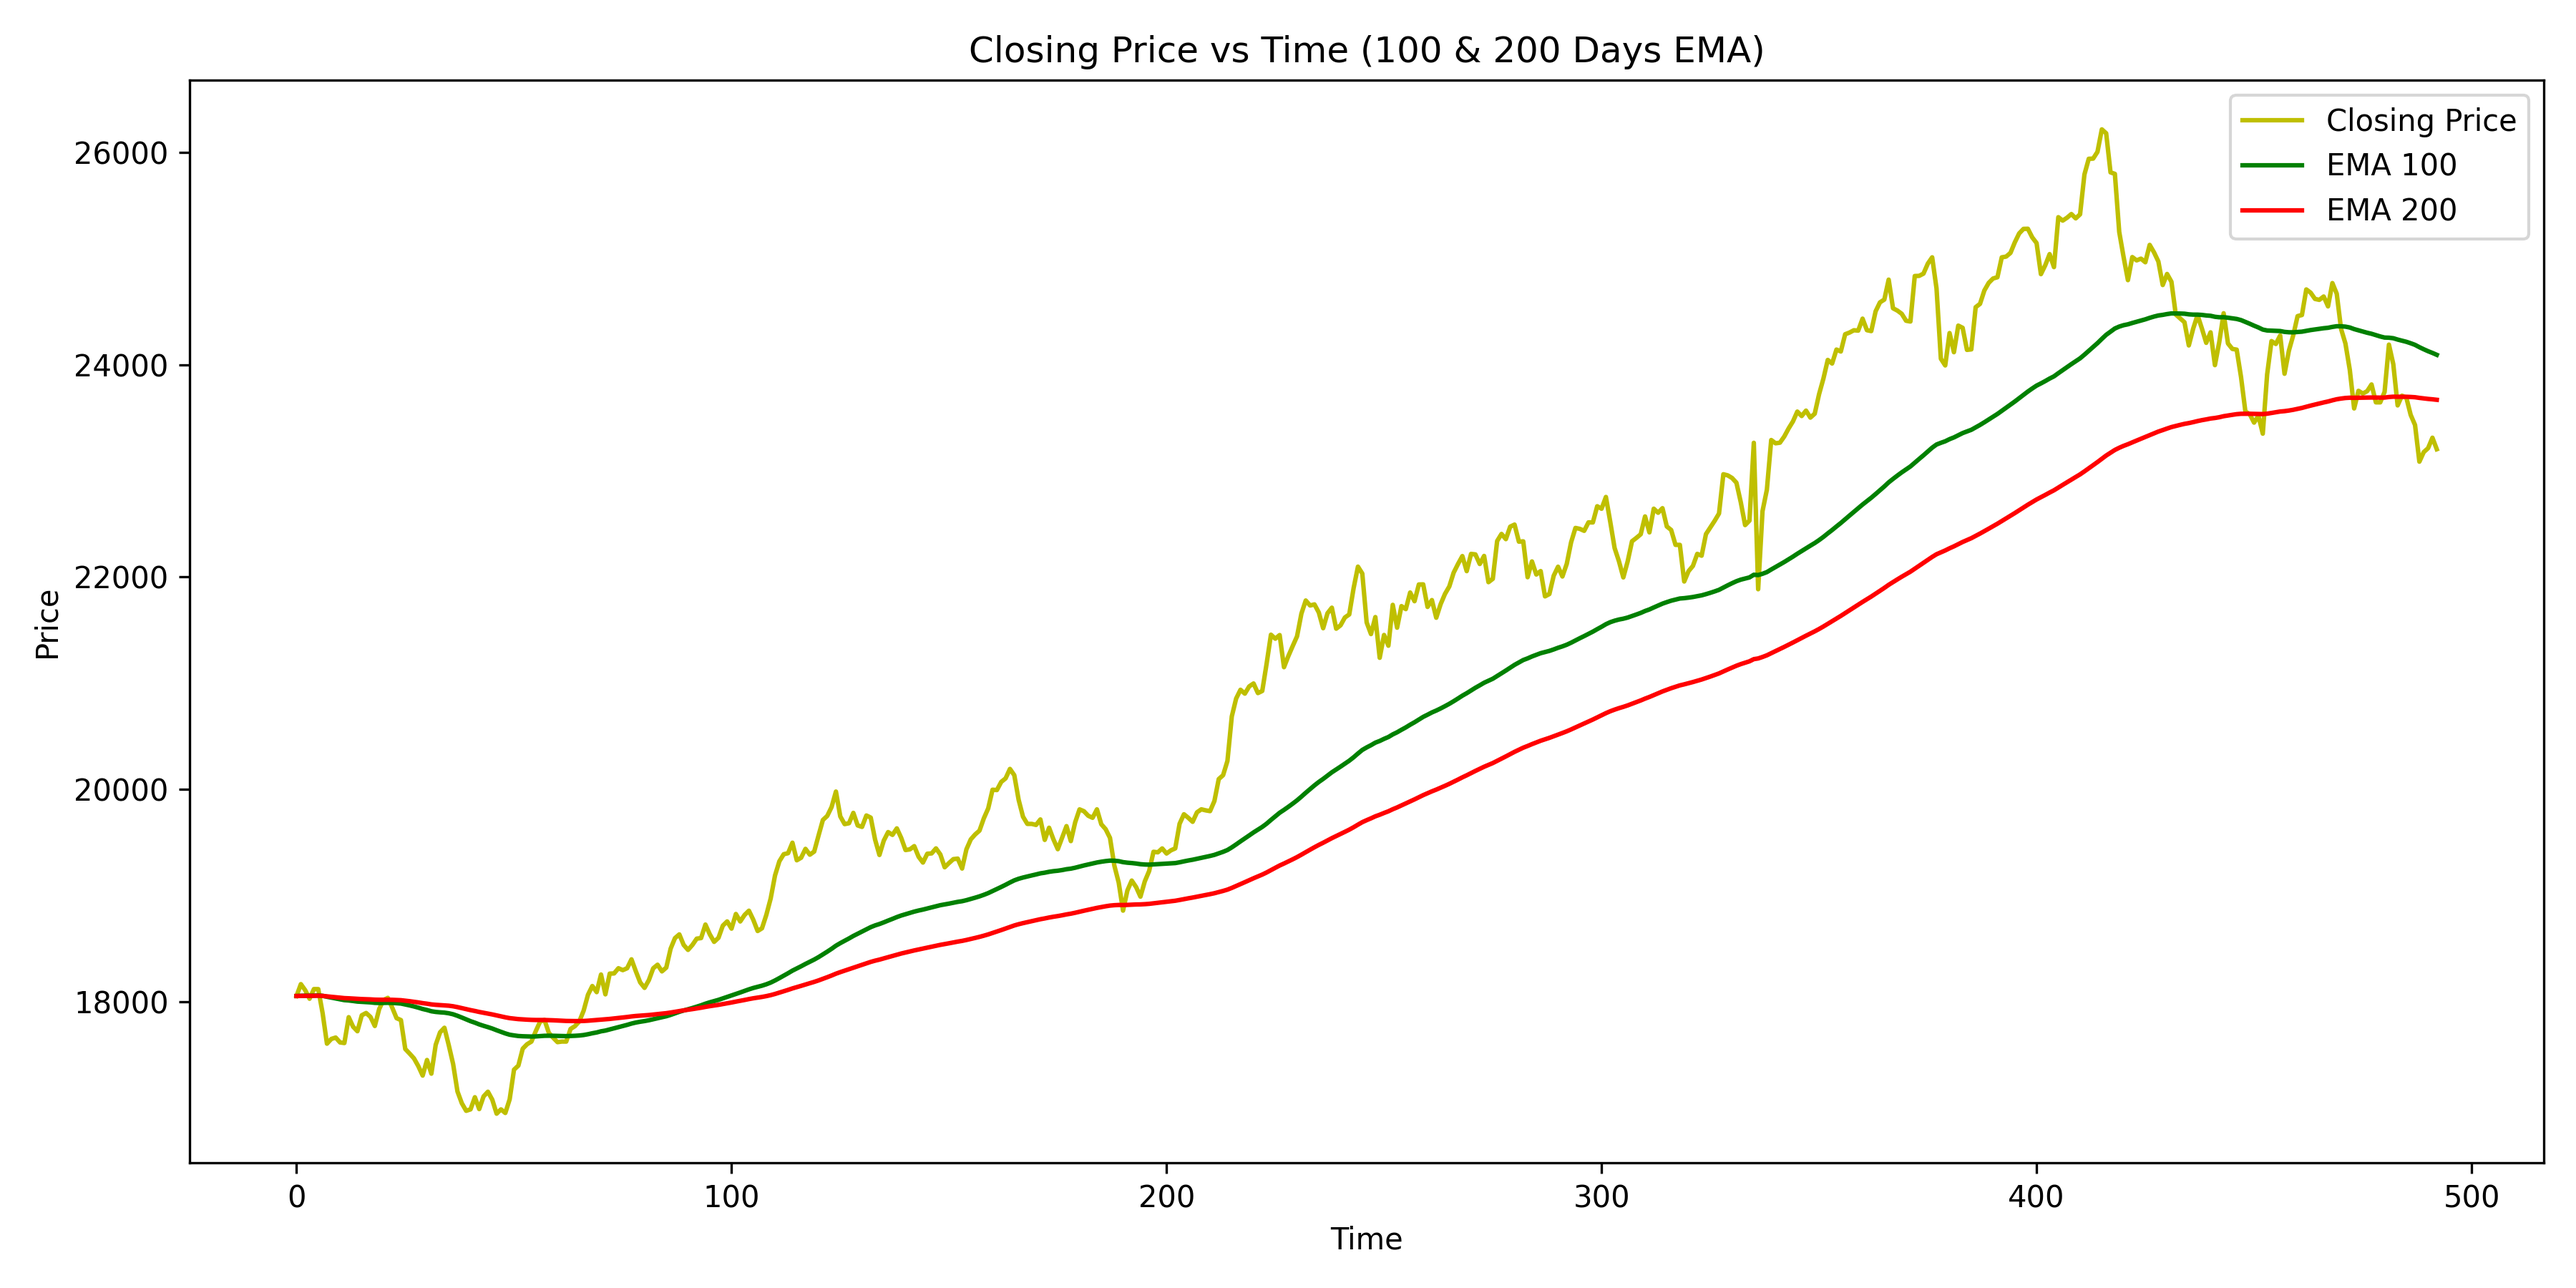
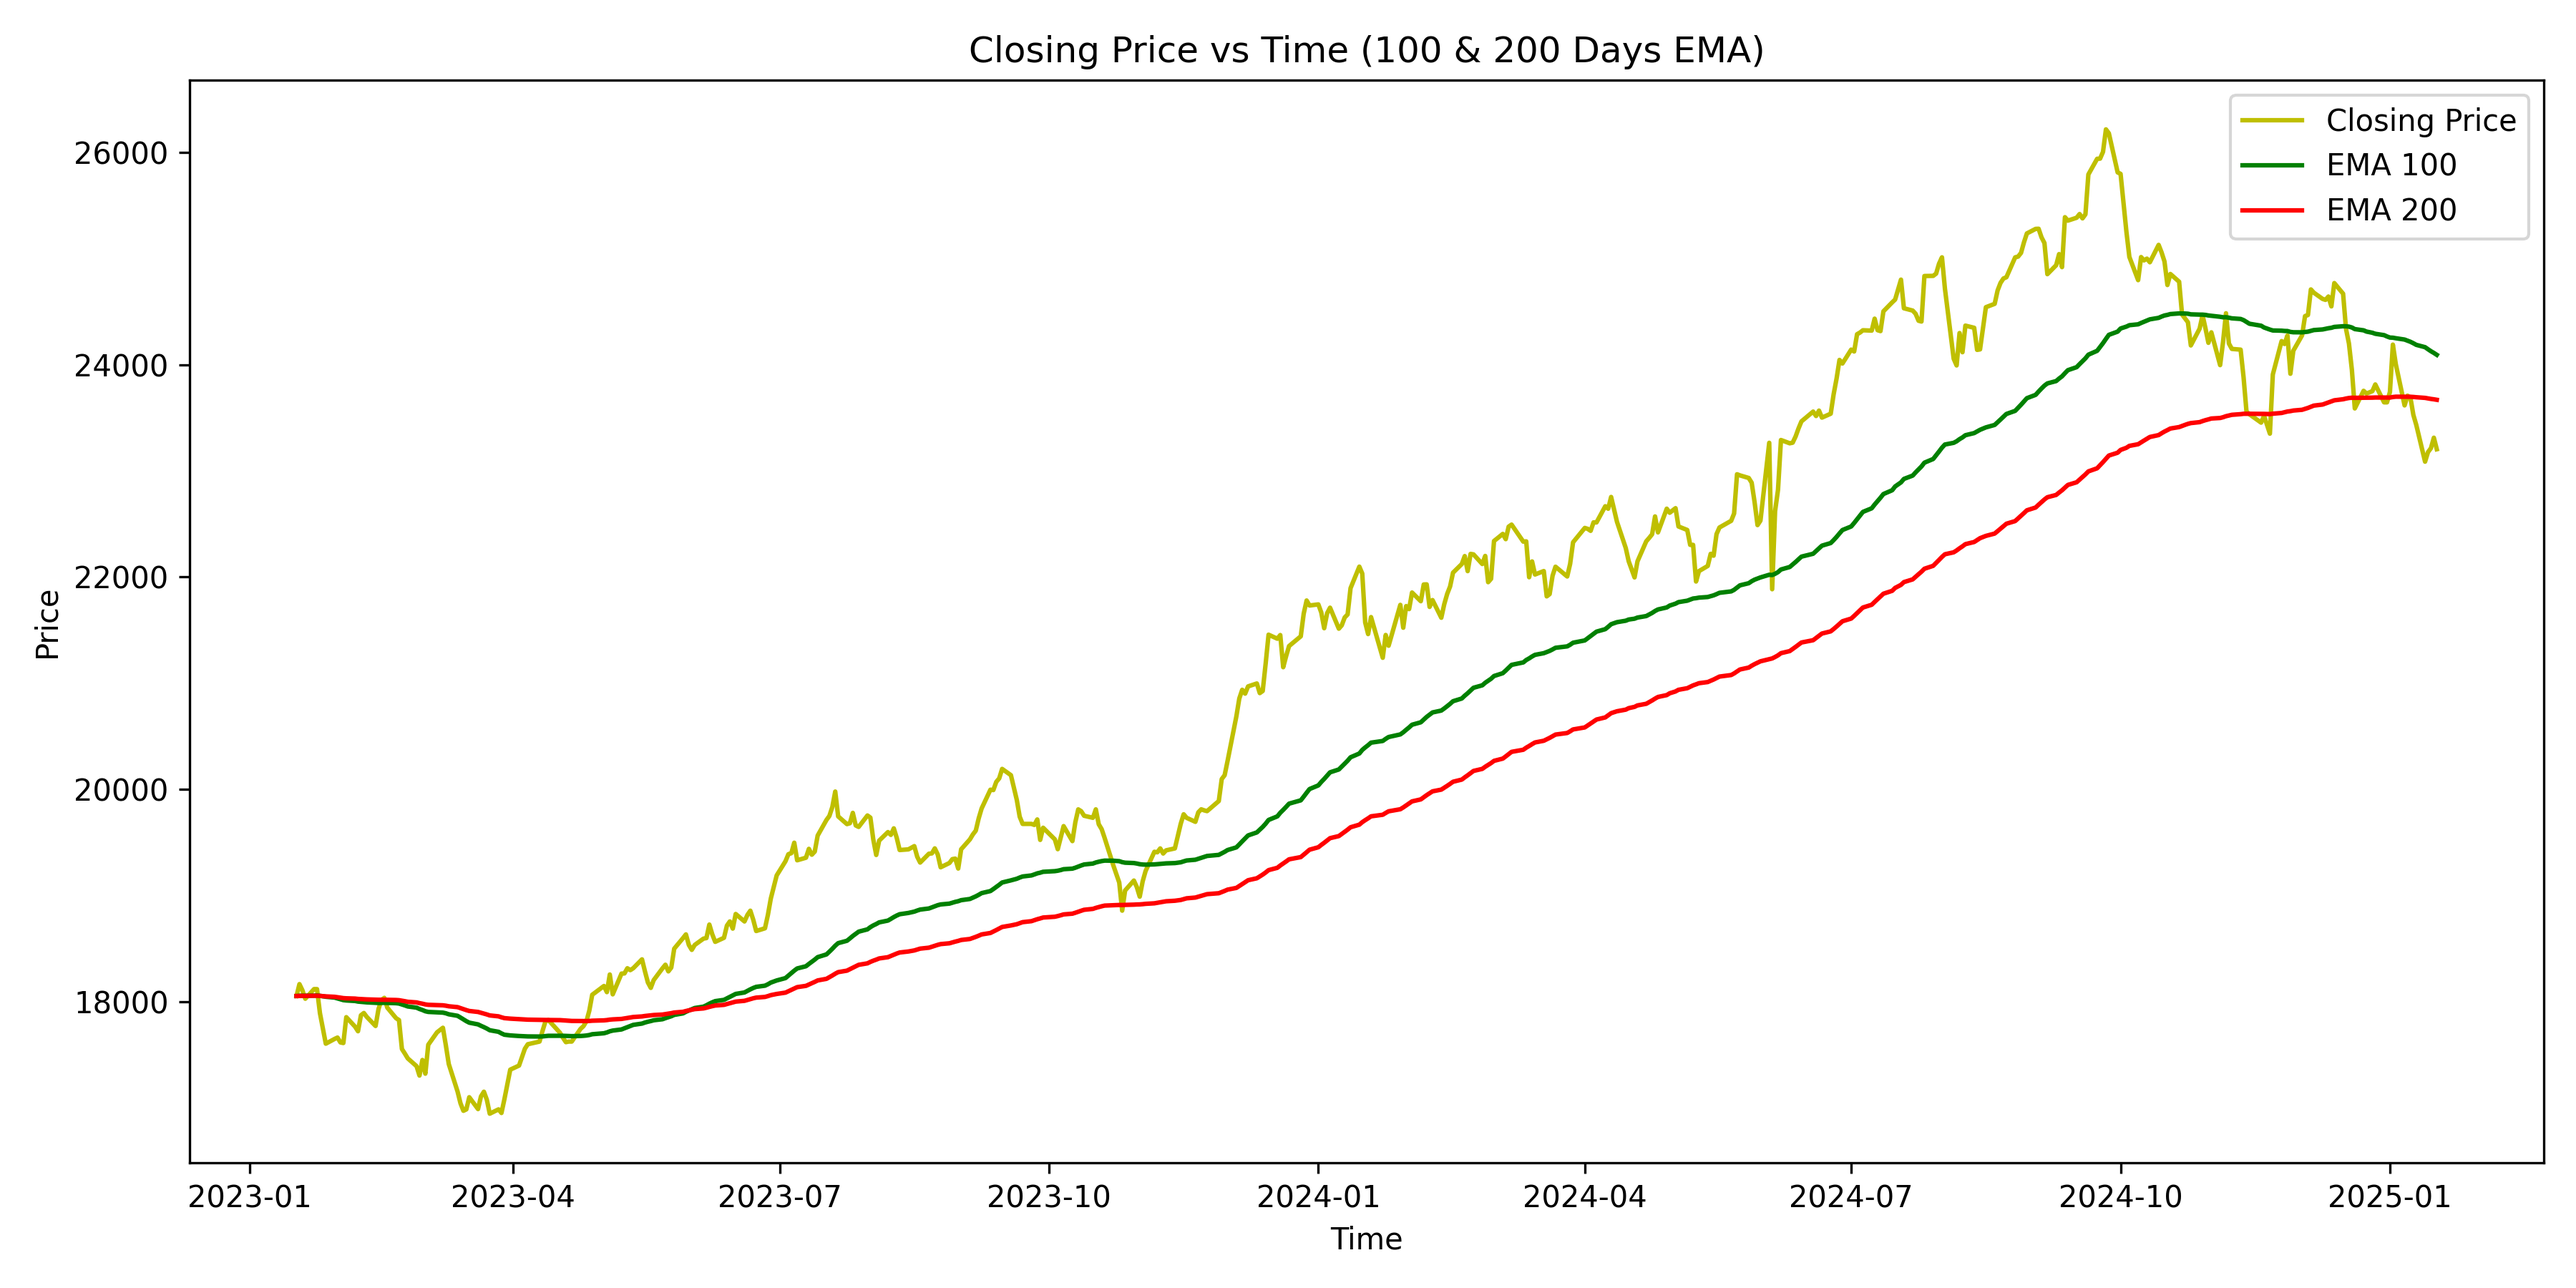
Change static to dynamic stock price prediction

diff --git a/templates/index.html b/templates/index.html
@@ -24,7 +24,7 @@
           <div class="col-md-2 d-flex align-items-end">
             <button type="submit" class="btn btn-primary">Submit</button>
           </div> -->
-          {% if output %}
+          {% if message %} {{ message }} {% endif %} {% if output %}
           <div class="col-md-12">
             <div class="table-responsive">
               <table class="table table-bordered">
@@ -55,22 +55,4 @@
     integrity="sha384-0pUGZvbkm6XF6gxjEnlmuGrJXVbNuzT9qBBavbLwCsOGabYfZo0T0to5eqruptLy"
     crossorigin="anonymous"
   ></script>
-
-  <script>
-    document.addEventListener("DOMContentLoaded", function () {
-      const inputBox = document.getElementById("stock");
-
-      inputBox.addEventListener("keyup", function () {
-        var stock_id = inputBox.value
-        fetch( '{{ url_for('get_stock_id') }}?stock='+stock_id, {
-          method: "POST",
-        })
-        .then(response => response.json())
-        .then((data) => {
-          console.log(data)
-        })
-        console.log("Input changed to:", inputBox.value);
-      });
-    });
-  </script>
 </html>

diff --git a/app.py b/app.py
@@ -5,8 +5,7 @@ import joblib
 import numpy as np
 import matplotlib.pyplot as plt
 from pathlib import Path
-
-response = requests.get("https://query2.finance.yahoo.com/v8/finance/chart/AAPL", params={'range':'2y', 'interval':'1d', 'includePrePost':'False', 'events':'div,splits,capitalGains'}, verify=False)
+import yfinance as yf
 
 app = Flask(__name__, template_folder="templates")
 
@@ -21,107 +20,123 @@ def save_fig(fig_id, tight_layout=True, fig_extension="png", resolution=300):
 def index():
     return render_template('index.html')
 
-@app.route('/get_stock_id', methods=["POST"])
-def get_stock_id():
-    stock_id = request.args.get('stock')
-    ticker = request.args.get('ticker')
-    # replace the "demo" apikey below with your own key from https://www.alphavantage.co/support/#api-key
-    url = f'https://www.alphavantage.co/query?function=SYMBOL_SEARCH&keywords={ticker}&apikey=YG8JN0I1UN1ARP9T'
-    r = requests.get(url, verify=False)
-    data = r.json()
-    return data 
-
-
 @app.route('/predict_api', methods=["POST"])
 def predict_api():
 
-    df = pd.read_csv('nsei-stock-data.csv')
+    ticker = request.args.get('ticker')
 
-    data_training = pd.DataFrame(df['Close'][0:int(len(df)*0.40)])
-    data_testing = pd.DataFrame(df['Close'][int(len(df)*0.40): int(len(df))])
+    if 'ticker' in request.args.keys():
 
-    scaler = joblib.load('stock-price-prediction-scaler.pkl')
+        # Get the ticker object
+        stock = yf.Ticker(ticker)
 
-    sequence_length = 200
-    past_200_days = data_training.tail(sequence_length+1)
-    final_df = pd.concat([past_200_days,data_testing], ignore_index=True)
-    input_data = scaler.fit_transform(final_df)
+        # Get real-time price data
+        price = stock.history(period="2y")['Close']
+        df = pd.DataFrame(price)
 
-    x_test, y_test = [], []
-    for i in range(sequence_length+1, input_data.shape[0]):
-        x_test.append(input_data[i - sequence_length:i])
-        y_test.append(input_data[i, 0])
-    X_test, y_test = np.array(x_test), np.array(y_test)
+        # df = pd.read_csv('nsei-stock-data.csv')
 
-    model = joblib.load("stock-price-prediction-keras-model.pkl")
+        data_training = pd.DataFrame(df['Close'][0:int(len(df)*0.40)])
+        data_testing = pd.DataFrame(df['Close'][int(len(df)*0.40): int(len(df))])
 
-    prediction = model.predict(X_test)
+        scaler = joblib.load('stock-price-prediction-scaler.pkl')
 
-    output = {
-        'Prediction': scaler.inverse_transform(prediction.reshape(-1, 1))[-1].tolist()[0],  
-        'Acutal': scaler.inverse_transform(y_test.reshape(-1, 1))[-1].tolist()[0]
-    }
+        sequence_length = 200
+        past_200_days = data_training.tail(sequence_length+1)
+        final_df = pd.concat([past_200_days,data_testing], ignore_index=True)
+        input_data = scaler.fit_transform(final_df)
 
-    print(output)
-    return jsonify(output)
+        x_test, y_test = [], []
+        for i in range(sequence_length+1, input_data.shape[0]):
+            x_test.append(input_data[i - sequence_length:i])
+            y_test.append(input_data[i, 0])
+        X_test, y_test = np.array(x_test), np.array(y_test)
+
+        model = joblib.load("stock-price-prediction-keras-model.pkl")
+
+        prediction = model.predict(X_test)
+
+        output = {
+            'Prediction': scaler.inverse_transform(prediction.reshape(-1, 1))[-1].tolist()[0],  
+            'Acutal': scaler.inverse_transform(y_test.reshape(-1, 1))[-1].tolist()[0]
+        }
+
+        print(output)
+        return jsonify(output)
+    else :
+        return "Please pass the parameter ticker"
 
 
-@app.route('/predict')
+@app.route('/predict', methods=["GET"])
 def predict():
-    df = pd.read_csv('nsei-stock-data.csv')
 
-    ema100 = df.Close.ewm(span=100, adjust=False).mean()
-    ema200 = df.Close.ewm(span=200, adjust=False).mean()
+    ticker = request.args.get('ticker')
+    
+    if 'ticker' in request.args.keys():
 
-    plt.figure(figsize=(12, 6))
-    plt.plot(df.Close, 'y', label='Closing Price')
-    plt.plot(ema100, 'g', label='EMA 100')
-    plt.plot(ema200, 'r', label='EMA 200')
-    plt.title("Closing Price vs Time (100 & 200 Days EMA)")
-    plt.xlabel("Time")
-    plt.ylabel("Price")
-    plt.legend()
-    ema_chart_path_100_200 = save_fig("ema_100_200")
+        # Get the ticker object
+        stock = yf.Ticker(ticker)
 
-    data_training = pd.DataFrame(df['Close'][0:int(len(df)*0.40)])
-    data_testing = pd.DataFrame(df['Close'][int(len(df)*0.40): int(len(df))])
+        # Get real-time price data
+        price = stock.history(period="2y")['Close']
+        df = pd.DataFrame(price)
 
-    scaler = joblib.load('stock-price-prediction-scaler.pkl')
+        # df = pd.read_csv('nsei-stock-data.csv')
 
-    sequence_length = 200
-    past_200_days = data_training.tail(sequence_length+1)
-    final_df = pd.concat([past_200_days,data_testing], ignore_index=True)
-    input_data = scaler.fit_transform(final_df)
+        ema100 = df.Close.ewm(span=100, adjust=False).mean()
+        ema200 = df.Close.ewm(span=200, adjust=False).mean()
 
-    x_test, y_test = [], []
-    for i in range(sequence_length+1, input_data.shape[0]):
-        x_test.append(input_data[i - sequence_length:i])
-        y_test.append(input_data[i, 0])
-    X_test, y_test = np.array(x_test), np.array(y_test)
+        plt.figure(figsize=(12, 6))
+        plt.plot(df.Close, 'y', label='Closing Price')
+        plt.plot(ema100, 'g', label='EMA 100')
+        plt.plot(ema200, 'r', label='EMA 200')
+        plt.title("Closing Price vs Time (100 & 200 Days EMA)")
+        plt.xlabel("Time")
+        plt.ylabel("Price")
+        plt.legend()
+        ema_chart_path_100_200 = save_fig("ema_100_200")
 
-    model = joblib.load("stock-price-prediction-keras-model.pkl")
+        data_training = pd.DataFrame(df['Close'][0:int(len(df)*0.40)])
+        data_testing = pd.DataFrame(df['Close'][int(len(df)*0.40): int(len(df))])
 
-    prediction = model.predict(X_test)
+        scaler = joblib.load('stock-price-prediction-scaler.pkl')
 
-    ## Actual vs Predicted Chart
-    plt.figure(figsize=(12, 6))
-    plt.plot(scaler.inverse_transform(y_test.reshape(-1, 1)), 'r', label='Actual Price')
-    plt.plot(scaler.inverse_transform(prediction.reshape(-1, 1)), 'g', label='Predicted Price')
-    plt.title("Acutal Vs Predicted")
-    plt.xlabel("Time")
-    plt.ylabel("Price")
-    plt.legend()
-    actual_predicted_path = save_fig("acutal_predicted")
+        sequence_length = 200
+        past_200_days = data_training.tail(sequence_length+1)
+        final_df = pd.concat([past_200_days,data_testing], ignore_index=True)
+        input_data = scaler.fit_transform(final_df)
 
-    output = {
-        'Prediction': scaler.inverse_transform(prediction.reshape(-1, 1))[-1].tolist()[0],  
-        'Acutal': scaler.inverse_transform(y_test.reshape(-1, 1))[-1].tolist()[0]
-    }
+        x_test, y_test = [], []
+        for i in range(sequence_length+1, input_data.shape[0]):
+            x_test.append(input_data[i - sequence_length:i])
+            y_test.append(input_data[i, 0])
+        X_test, y_test = np.array(x_test), np.array(y_test)
 
-    print(output)
-    return render_template('index.html', output=output, actual_predicted = actual_predicted_path, ema_chart_100_200 = ema_chart_path_100_200)
+        model = joblib.load("stock-price-prediction-keras-model.pkl")
+
+        prediction = model.predict(X_test)
+
+        ## Actual vs Predicted Chart
+        plt.figure(figsize=(12, 6))
+        plt.plot(scaler.inverse_transform(y_test.reshape(-1, 1)), 'r', label='Actual Price')
+        plt.plot(scaler.inverse_transform(prediction.reshape(-1, 1)), 'g', label='Predicted Price')
+        plt.title("Acutal Vs Predicted")
+        plt.xlabel("Time")
+        plt.ylabel("Price")
+        plt.legend()
+        actual_predicted_path = save_fig("acutal_predicted")
+
+        output = {
+            'Prediction': scaler.inverse_transform(prediction.reshape(-1, 1))[-1].tolist()[0],  
+            'Acutal': scaler.inverse_transform(y_test.reshape(-1, 1))[-1].tolist()[0]
+        }
+
+        print(output)
+        return render_template('index.html', output=output, actual_predicted = actual_predicted_path, ema_chart_100_200 = ema_chart_path_100_200)
+    else :
+        return render_template('index.html', message="Invalid Request")
     
 
 
 if __name__ == "__main__":
-    app.run(host='0.0.0.0', port=5000, debug=True)
+    app.run(debug=True)
